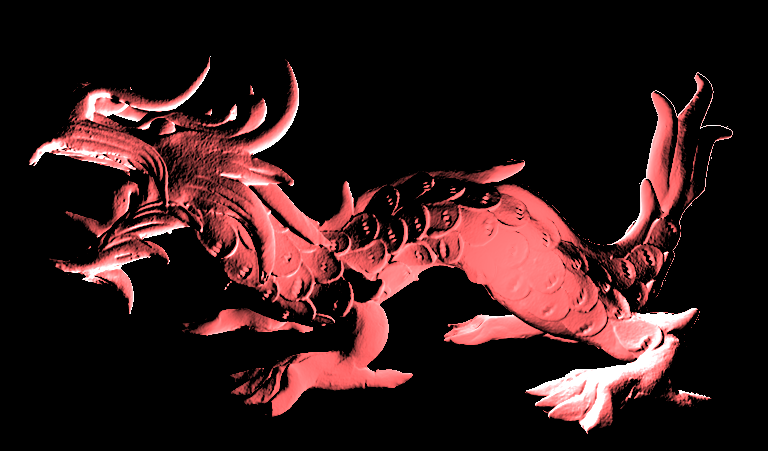
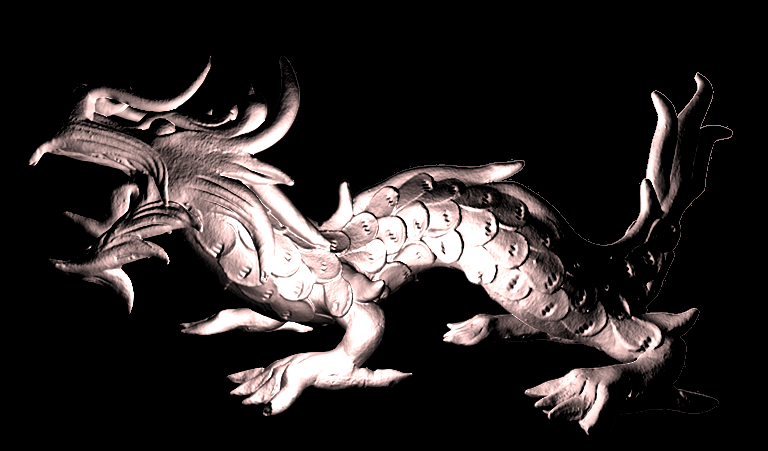
Change parameters

diff --git a/tp4/MVA_NPM_TP_4.py b/tp4/MVA_NPM_TP_4.py
@@ -152,7 +152,7 @@ if __name__ == "__main__":
     # Define materials
     if args.cook:
         LMin,  LMax = 45, 55
-        material = Cook(0.5, [0.8,0.42,0.42], 0.9)
+        material = Cook(5, [0.8,0.42,0.42], 0.02)
     elif args.blinn:
         LMin,  LMax = 0.5, 1
         material = BlinnPhong([0.80,0.42,0.42],5)
